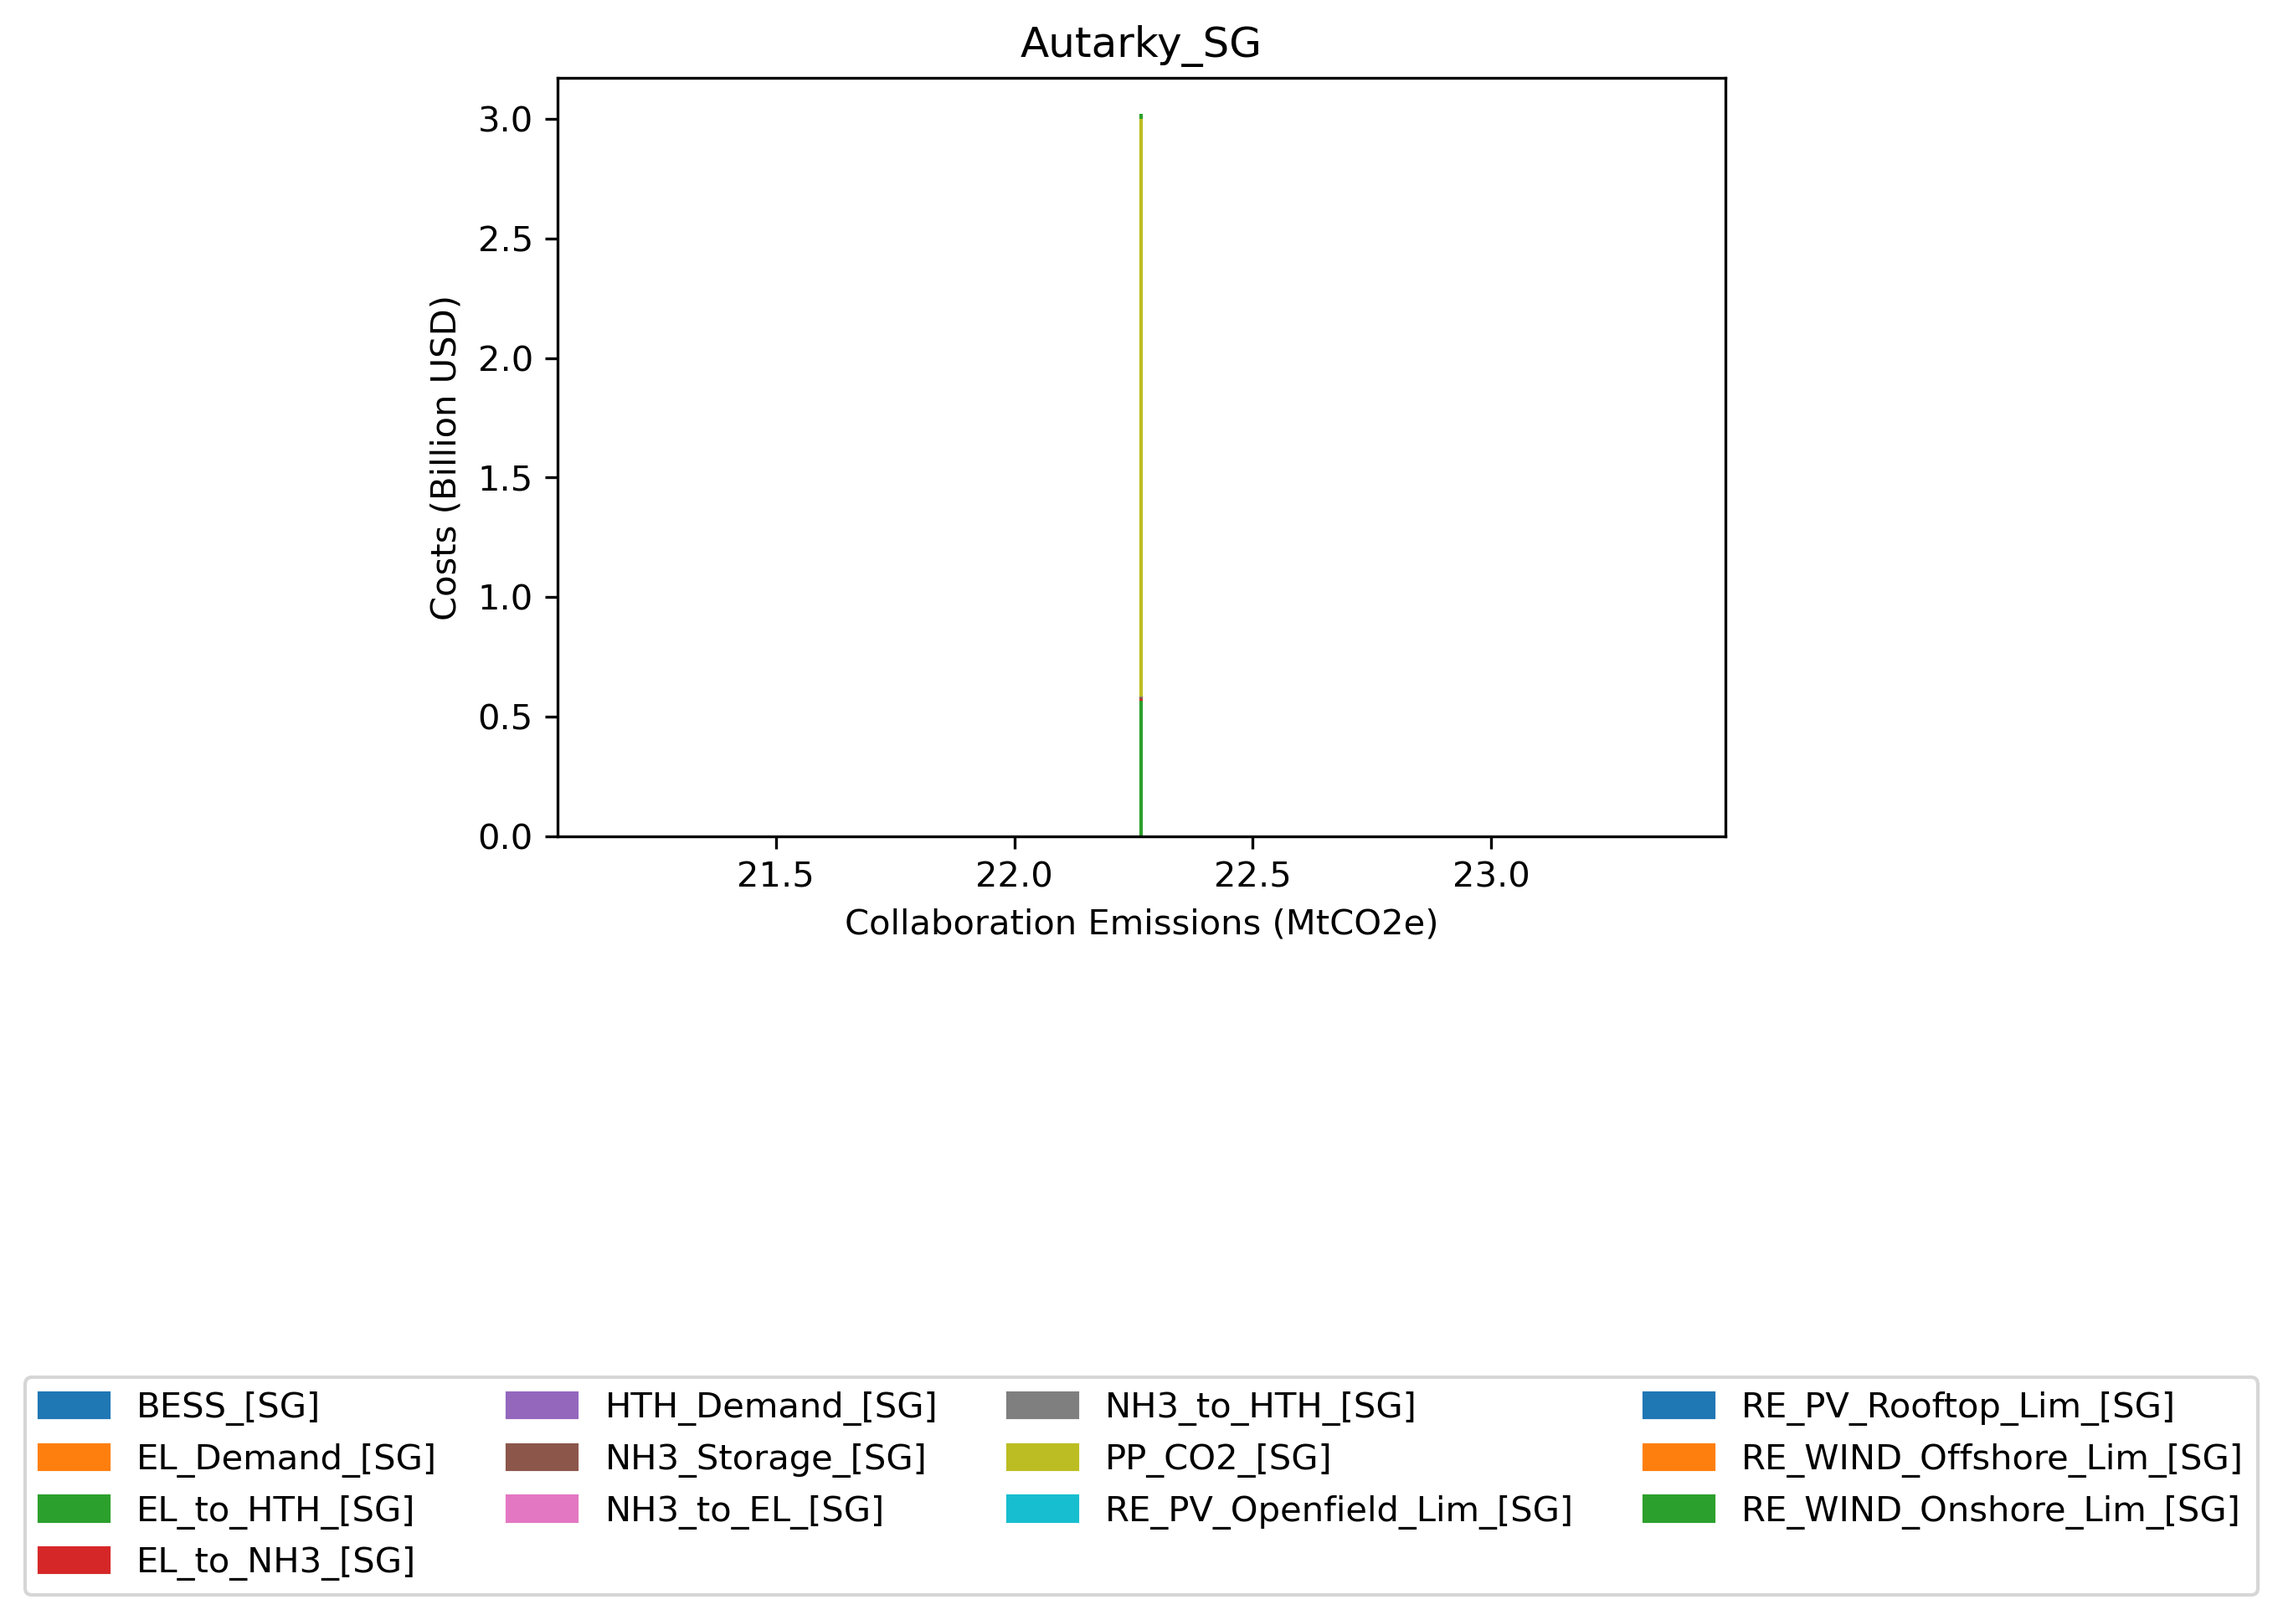
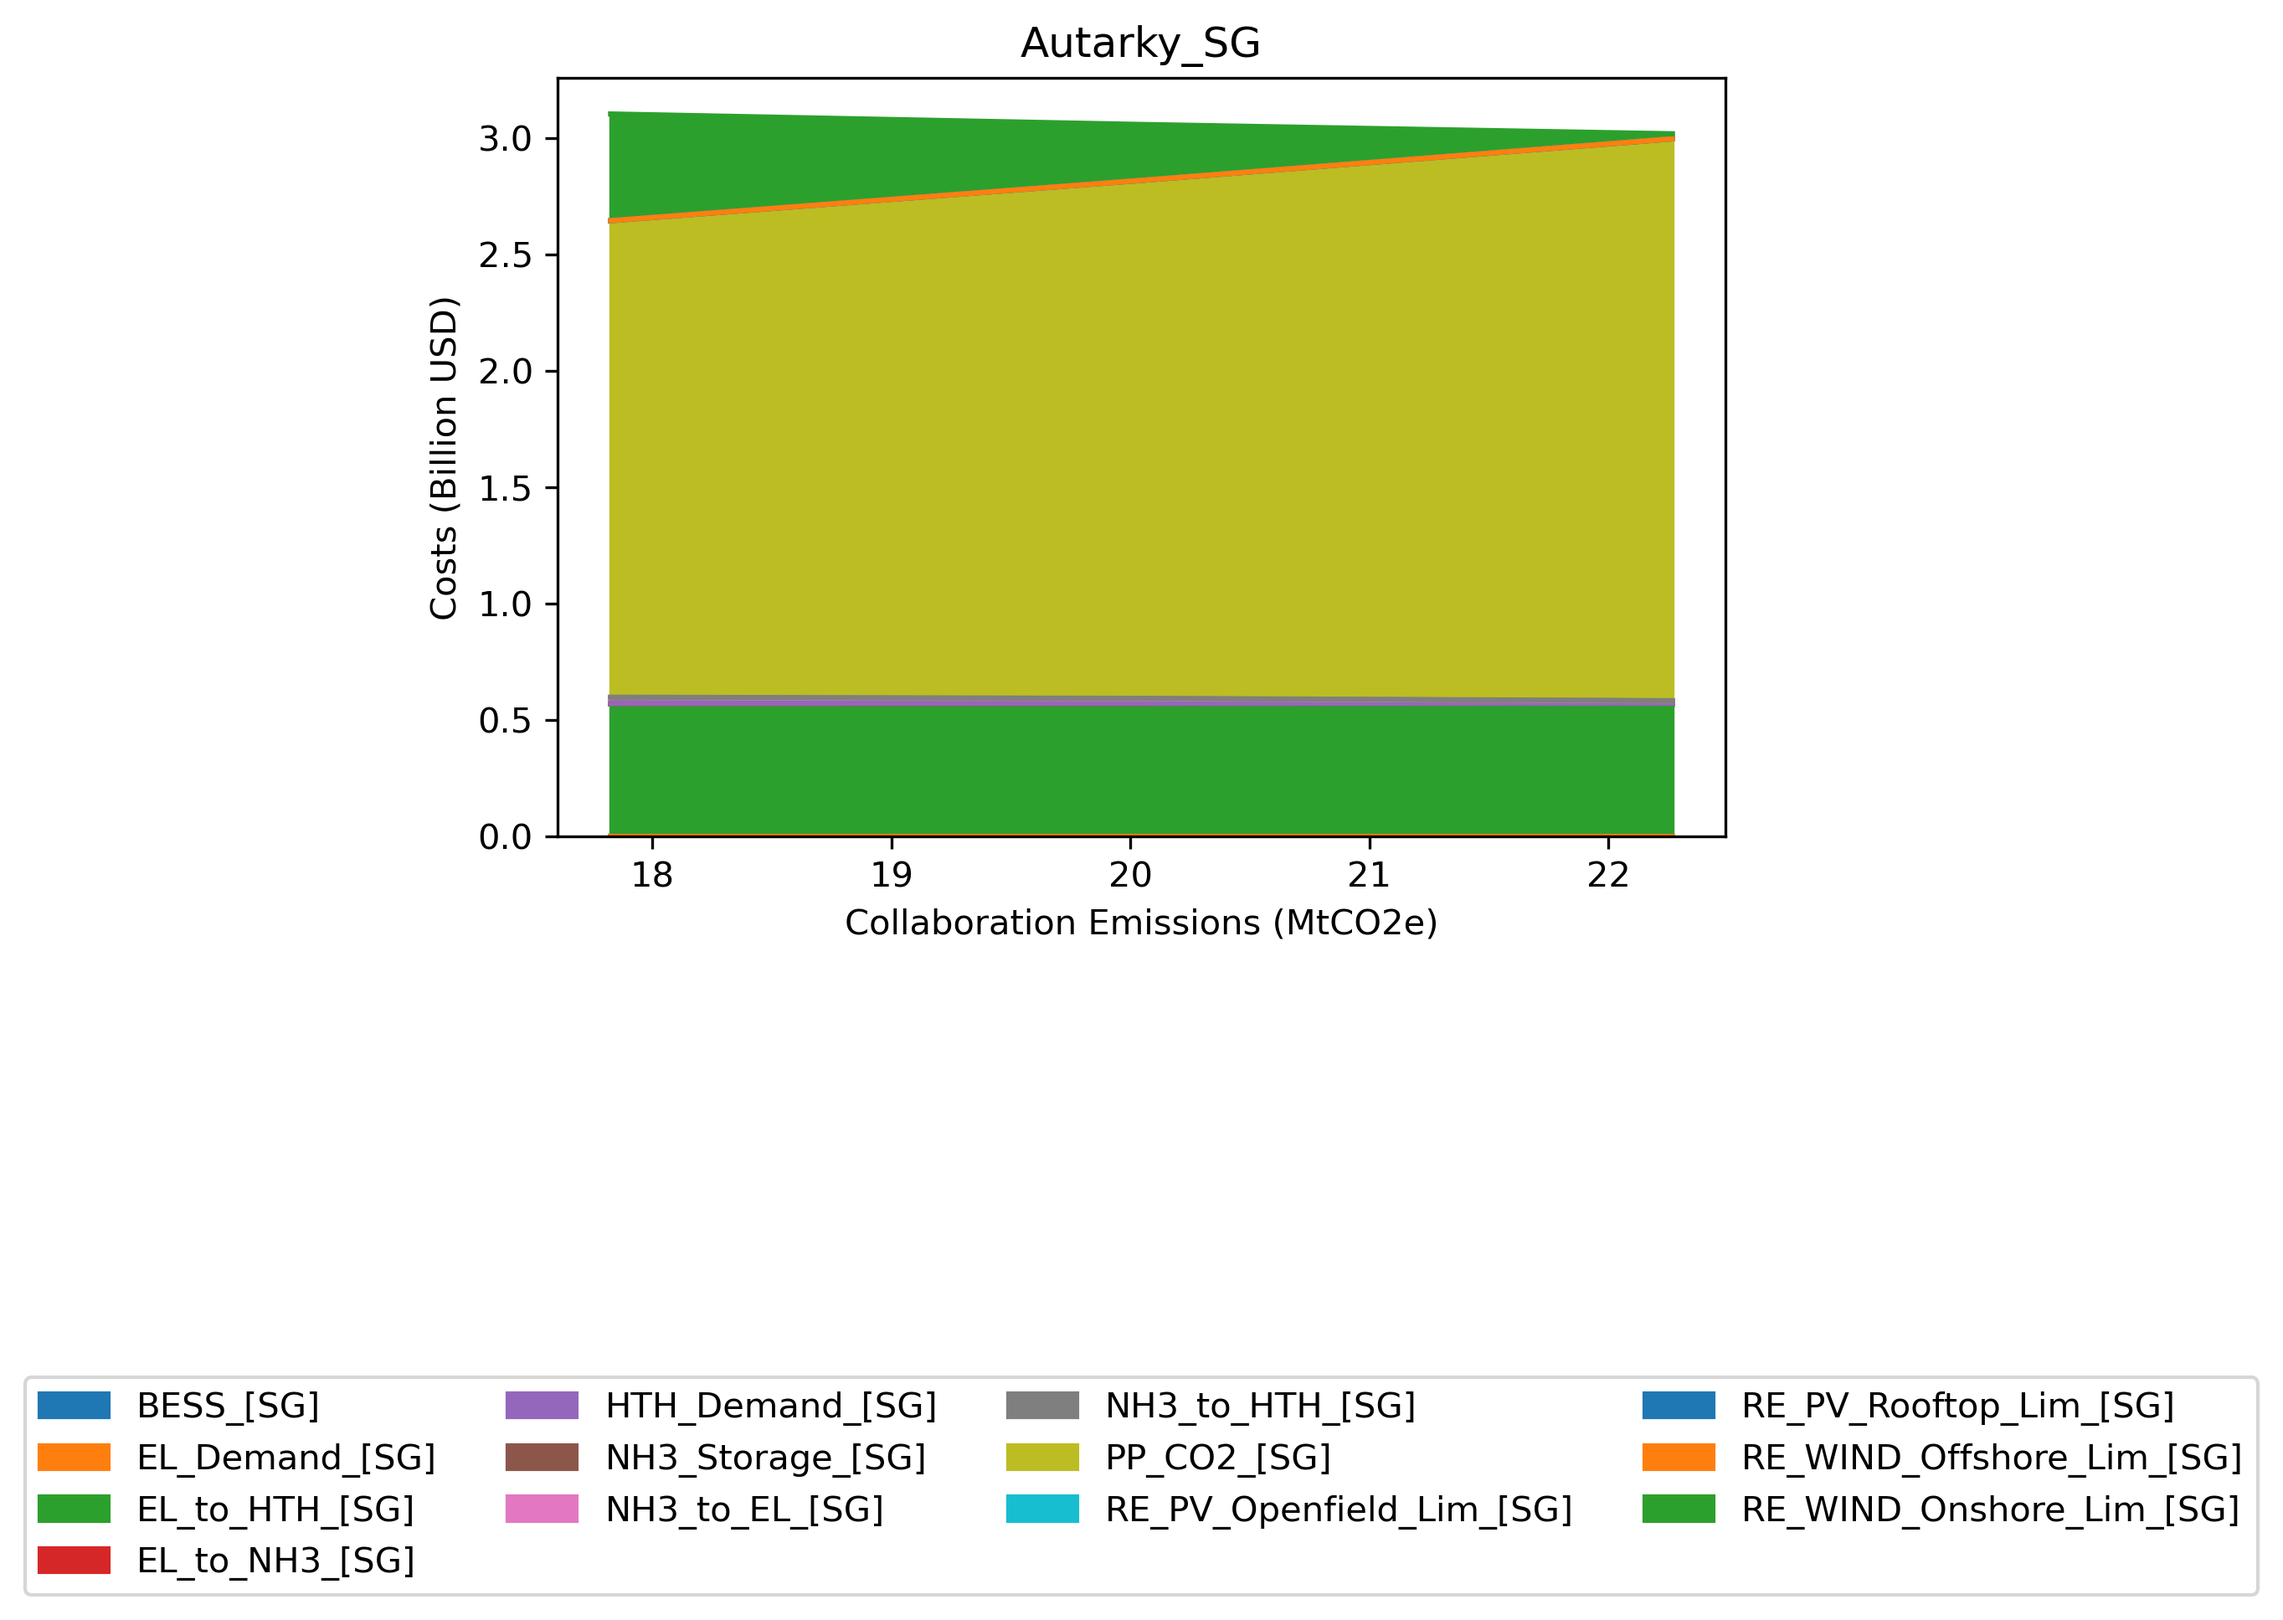
Changed co2 budget parameters for SG_Autarky to be between BAU and 10% reduction

Changed region(s): [[0.187, 0.062, 0.7481, 0.5581]]

diff --git a/main.py b/main.py
@@ -22,14 +22,14 @@ from Code.Results import GMPA_Results
 
 
 ###### Autarky Case Studies #########
-case_study_name = "Autarky_SG"
+# case_study_name = "Autarky_SG"
 # case_study_name = "Autarky_ID"
 # case_study_name = "Autarky_MY"
 # case_study_name = "Autarky_VN"
 # case_study_name = "Autarky_PH"
 # case_study_name = "Autarky_TH"
 # case_study_name = "Autarky_KH"
-# case_study_name = "Autarky_LA"
+case_study_name = "Autarky_LA"
 
 ###### Two Country Case Studies #########
 # case_study_name = "SG-ID_Autarky"
@@ -182,9 +182,9 @@ for counter1 in range(len(scenario_folders_list)):
 
 
 
-# #### Save Result
-total_df.to_csv(results_filename, index=False, header=True)
-total_df_1.to_csv(unrounded_results_filename, index=False, header=True)
+# # #### Save Result
+# total_df.to_csv(results_filename, index=False, header=True)
+# total_df_1.to_csv(unrounded_results_filename, index=False, header=True)
 
 
    

diff --git a/GMPA_plot_mitigation_curve.py b/GMPA_plot_mitigation_curve.py
@@ -13,7 +13,7 @@ import os
 
 
 ###### Autarky Case Studies #########
-# case_study_name = "Autarky_SG"
+case_study_name = "Autarky_SG"
 # case_study_name = "Autarky_ID"
 # case_study_name = "Autarky_MY"
 # case_study_name = "Autarky_VN"
@@ -62,7 +62,7 @@ import os
 
 ###### Four Country Case Studies #########
 # case_study_name = "SG-ID-MY-PH_Autarky"
-case_study_name = "SG-ID-MY-PH_Collab"
+# case_study_name = "SG-ID-MY-PH_Collab"
 
 
 
